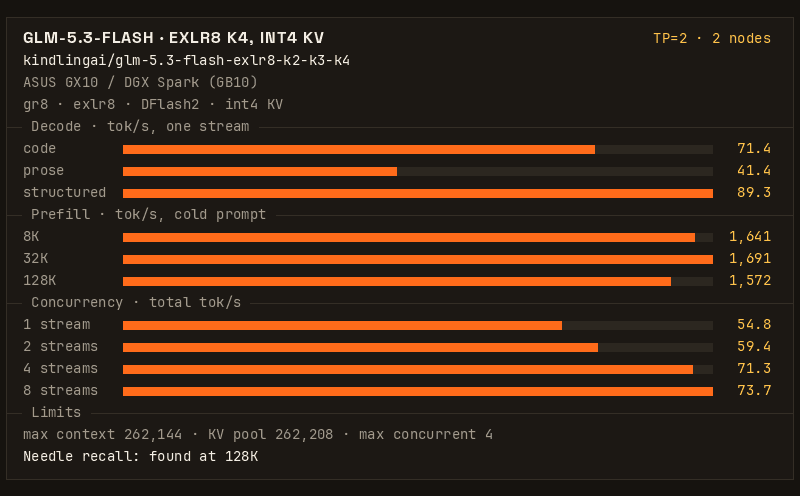
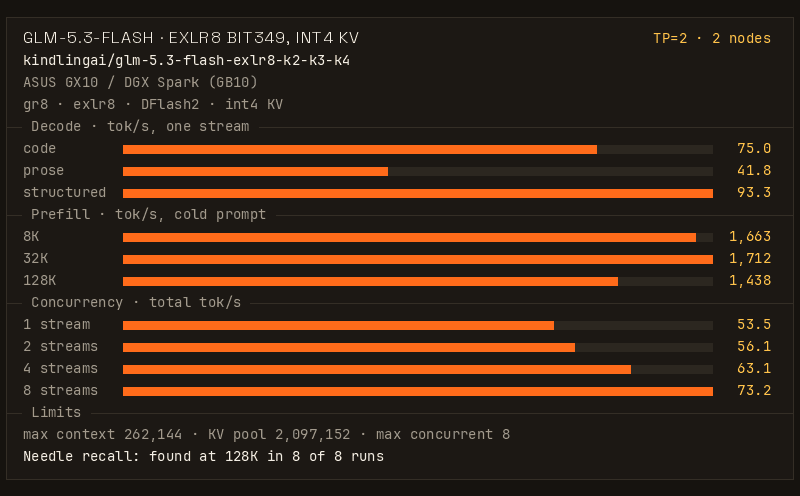
bit349 by default; TUNE sets the width, sessions, KV pool and request length; context turns on context-parallel KV; gr8 48d4349 (#14)
Moves the recipe to the release's bit349 manifest (HF 1a22815) and gr8 48d4349. TUNE sets VARIANT, SESS, CAP and MAX_MODEL_LEN (a value set in .env wins): speed = bit349, SESS 8, CAP 2097152, 262144-token requests; context = the same with 1048576-token requests and GR8_CP=1; quality = k4, SESS 4, CAP 262208. knobs.sh passes a manifest name other than k2-k4 to gr8 as its path in the model cache. New card from the speed tune.

diff --git a/README.md b/README.md
@@ -4,8 +4,9 @@
 _**Join our discord to learn more about KindlingAI and `gr8`: https://discord.gg/8EAvYPV2rE**_
 
 GLM-5.3-Flash on two DGX Sparks (GB10, 128 GB each) at TP=2, served by [gr8](https://github.com/kindlingai/gr8) from
-the K4 width of [kindlingai/glm-5.3-flash-exlr8-k2-k3-k4](https://huggingface.co/kindlingai/glm-5.3-flash-exlr8-k2-k3-k4):
-int4 KV, DFlash2 speculative decoding, four requests at once, and a prompt cache on disk.
+the `bit349` manifest of [kindlingai/glm-5.3-flash-exlr8-k2-k3-k4](https://huggingface.co/kindlingai/glm-5.3-flash-exlr8-k2-k3-k4)
+(K3 with K4 where it lowers KL most, about 3.49 bits a routed weight): int4 KV, DFlash2 speculative decoding, eight
+requests at once sharing a 2,097,152-token KV pool, and a prompt cache on disk.
 
 ![GLM-5.3-Flash on two GB10s: decode, prefill and concurrency](docs/card.png)
 
@@ -13,16 +14,15 @@ int4 KV, DFlash2 speculative decoding, four requests at once, and a prompt cache
 
 *Four requests decoding at once on two GB10s, played at 2x speed.*
 
-> Work in progress. The defaults (width, `CAP`, sessions) are starting values until the benches settle them, and the
-> numbers below are from first runs. One box serves GLM-5.3-Flash with
-> [glm-5.3-flash-exlr8-1x-spark](https://github.com/kindlingai/glm-5.3-flash-exlr8-1x-spark).
+One box serves GLM-5.3-Flash with [glm-5.3-flash-exlr8-1x-spark](https://github.com/kindlingai/glm-5.3-flash-exlr8-1x-spark).
 
 Pick what to prioritize with one setting, `TUNE`:
 
-- `TUNE=speed` (the default): one request writes code at 71.1 tok/s in a first run, and a request can be up to
-  262,144 tokens.
-- `TUNE=context`: the same as `speed` for now. A larger KV pool has not been measured on two boxes.
-- `TUNE=quality`: the same as `speed`. K4 already has the most bits per weight of the release's three widths.
+- `TUNE=speed` (the default): one request writes code at 75.0 tok/s, eight requests decode at 73.2 tok/s in total,
+  and a request can be up to 262,144 tokens.
+- `TUNE=context`: a request can be up to 1,048,576 tokens, with context-parallel KV. A 1,015,102-token prompt found
+  its needle in 1,542 s.
+- `TUNE=quality`: the release's K4 width, four requests at once, each up to 262,144 tokens.
 
 Details: [Pick what to prioritize](#pick-what-to-prioritize), below the Quickstart.
 
@@ -30,7 +30,7 @@ Details: [Pick what to prioritize](#pick-what-to-prioritize), below the Quicksta
 
 - Two Sparks joined by a 200G cable between their ConnectX ports (see Clustering).
 - Docker and the NVIDIA container toolkit on each box (both come with DGX OS).
-- No other model running on either box: the weights take about 86 GB a box.
+- No other model running on either box: the weights take about 76 GB a box (86 GB with `TUNE=quality`).
 - A LAN between the two boxes, with TCP ports 7340 and 7341 open.
 - Proactive memory compaction off on each box, once, as root (it holds across reboots):
 
@@ -99,7 +99,7 @@ docker logs -f glm53f-2x-spark     # on the head: ready at "serving: http://..."
 With `mentat` running, replace the `PEERS`, `IPS` and `IPS2` settings with `-e MENTAT=1`: then the head is the box
 with the lowest address.
 
-The first boot downloads each box's part from Hugging Face into the `glm53f-2x-cache` volume (about 86 GB, the model
+The first boot downloads each box's part from Hugging Face into the `glm53f-2x-cache` volume (about 76 GB, the model
 and the drafter) and converts the drafter. The boxes wait for each other, so start both within a few minutes.
 
 The API is OpenAI's on the head's port 8100, and the model's name is `glm-5.3-flash` (`glm53f` also works):
@@ -159,33 +159,38 @@ In `.env` next to `compose.yaml` (see `.env.example`), or with `docker run -e`, 
 
 | knob | default | |
 |---|---|---|
-| `TUNE` | `speed` | What to prioritize: `speed`, `context` or `quality` (see [Pick what to prioritize](#pick-what-to-prioritize)). On two boxes all three boot the same settings for now. Any other value stops the boot. |
+| `TUNE` | `speed` | What to prioritize: `speed`, `context` or `quality` (see [Pick what to prioritize](#pick-what-to-prioritize)). It sets the defaults of `VARIANT`, `SESS`, `CAP` and `MAX_MODEL_LEN`. Any other value stops the boot. |
 | `PEERS` | none | The two boxes' 10G LAN addresses, head first. Required unless `MENTAT=1`. |
 | `IPS`, `IPS2` | none | Each box's ConnectX address on PCIe root 1 and root 2, in `PEERS` order (see Clustering). |
-| `CAP` | `262208` | The KV pool in tokens, shared by the sessions: admission reserves each request's prompt + `max_tokens` from it. Every box holds the whole pool. |
-| `MAX_MODEL_LEN` | `262144` | The longest single request, prompt and output together. At most `CAP` less the guard rows. |
+| `VARIANT` | `bit349` (`k4` with `TUNE=quality`) | The release's width manifest: `bit349`, `k4`, or another of the release's manifests (its [release card](https://huggingface.co/kindlingai/glm-5.3-flash-exlr8-k2-k3-k4/blob/1a22815d178a79f78bb44e6858f0ee446ae8f0d4/README.md) lists them). A width not in the cache yet is downloaded at boot. |
+| `SESS` | `8` (`4` with `TUNE=quality`) | The requests that decode at once, 1 to 8. A request alone drafts with DFlash2. |
+| `CAP` | `2097152` (`262208` with `TUNE=quality`) | The KV pool in tokens, shared by the sessions: admission reserves each request's prompt + `max_tokens` from it. Every box holds the whole pool. |
+| `MAX_MODEL_LEN` | `262144` (`1048576` with `TUNE=context`) | The longest single request, prompt and output together. At most `CAP` less the guard rows, and at most 1,048,576. |
 | `DFLASH` | `1` | `1`: a request alone drafts with [DFlash2](https://huggingface.co/incoai/GLM-5.3-Flash-DFlash2) (CC BY-NC-ND 4.0), downloaded and converted on the first boot. `0`: MTP only, nothing downloaded. |
 | `MENTAT` | `0` | `1`: the boxes find each other and their ConnectX addresses through the host's `mentat` daemon, and register the API, in group `GROUP` (`gr8-glm53f-2x`). |
 
 The image pins the weights to Hugging Face commits: the release at
-[`867580a`](https://huggingface.co/kindlingai/glm-5.3-flash-exlr8-k2-k3-k4/tree/867580abd28d142bb4c56218bb81a752b7dea988)
+[`1a22815`](https://huggingface.co/kindlingai/glm-5.3-flash-exlr8-k2-k3-k4/tree/1a22815d178a79f78bb44e6858f0ee446ae8f0d4)
 and the drafter at [`bf582e4`](https://huggingface.co/incoai/GLM-5.3-Flash-DFlash2/tree/bf582e4eacc1810f76656d1811693ff6c6737d2a).
-Set `MODEL` or `DRAFTER` in `.env` as needed (`https://huggingface.co/<org>/<repo>@<commit>`).
+Set `MODEL` or `DRAFTER` in `.env` as needed (`https://huggingface.co/<org>/<repo>@<commit>`). gr8 knows `k2`, `k3` and
+`k4` by name; `knobs.sh` turns another `VARIANT` name into its manifest's path in the model cache when `MODEL` names a
+commit. With a `MODEL` that follows a branch, set `VARIANT` to the manifest's path.
 
-Advanced `gr8` options can be specified in `.env` as well: [gr8/KNOBS.md](https://github.com/kindlingai/gr8/blob/4ed9e7bed53d6ed23ba1c4a32c993ccc3850af96/KNOBS.md) lists them, and
-[gr8/docs/FLASH.md](https://github.com/kindlingai/gr8/blob/4ed9e7bed53d6ed23ba1c4a32c993ccc3850af96/docs/FLASH.md) covers GLM-5.3-Flash. The image sets `TP=2`, `SESS=4`, `VARIANT=k4`,
-`KV_FORMAT=int4` and the prompt cache (`FLASH_CACHE=aligned`, `KV_STORE=@/etc/gr8/kv-store.yaml`) (`Dockerfile`).
+Advanced `gr8` options can be specified in `.env` as well: [gr8/KNOBS.md](https://github.com/kindlingai/gr8/blob/48d43497f8261fc9f7a1893d1554ca4b29b35e81/KNOBS.md) lists them, and
+[gr8/docs/FLASH.md](https://github.com/kindlingai/gr8/blob/48d43497f8261fc9f7a1893d1554ca4b29b35e81/docs/FLASH.md) covers GLM-5.3-Flash. The image sets `TP=2`, `KV_FORMAT=int4` and the
+prompt cache (`FLASH_CACHE=aligned`, `KV_STORE=@/etc/gr8/kv-store.yaml`) (`Dockerfile`); `TUNE` sets the rest
+(`knobs.sh`).
 
 ## Pick what to prioritize
 
-`TUNE` picks one of three sets of settings (`knobs.sh`). On two boxes the three are the same for now: `TUNE` sets
-nothing, and the image's defaults apply (K4, int4 KV, `CAP` 262,208, `MAX_MODEL_LEN` 262,144).
+`TUNE` sets `VARIANT`, `SESS`, `CAP` and `MAX_MODEL_LEN` (`knobs.sh`), and `context` also turns on context-parallel
+KV. When you set one of them yourself, your value wins. Measured on two GX10s joined by one 200G cable.
 
 | `TUNE` | sets | you get | you give up | measured |
 |---|---|---|---|---|
-| `speed` (default) | nothing: the image's defaults | Decode, one stream: code / prose / structured 71.1 / 41.5 / 90.0 tok/s. Prefill 8K / 32K / 128K: 1,698 / 1,694 / 1,404 tok/s. The 128K needle test passes. | Requests longer than 262,144 tokens, prompt and output together. | [First numbers](#first-numbers), below: a first run, one stream at a time, on two GX10s joined by one 200G cable. The card at the top is a separate bench run of the same defaults, with 1 to 8 streams. |
-| `context` | the same as `speed` | The same as `speed` for now. | Nothing. | Not measured: no `CAP` above 262,208 has run on two boxes. |
-| `quality` | the same as `speed` | The same as `speed`. | Nothing. | Nothing else to measure: K4 has the most bits per weight of the release's three widths (4.0, the [release card](https://huggingface.co/kindlingai/glm-5.3-flash-exlr8-k2-k3-k4/blob/867580abd28d142bb4c56218bb81a752b7dea988/README.md)), and the image builds only the int4 KV engine. The release card's quality comparison against BF16 covers K4. |
+| `speed` (default) | `VARIANT=bit349`, `SESS=8`, `CAP=2097152`, `MAX_MODEL_LEN=262144` | Decode, one stream: code / prose / structured 75.0 / 41.8 / 93.3 tok/s. Eight streams: 73.2 tok/s in total. Prefill 8K / 32K / 128K: 1,663 / 1,712 / 1,438 tok/s. 13.3-13.6 GiB free a box at idle. | Requests longer than 262,144 tokens. Some quality against K4: mean KL against BF16 0.397, K4 0.384 (the release card). | The card at the top. |
+| `context` | the same as `speed`, with `MAX_MODEL_LEN=1048576` and `GR8_CP=1` in `EXTRA_ENV` | One request up to 1,048,576 tokens. Context-parallel KV keeps the first 32,768 tokens of the KV on both boxes and each later 64-token page on one box, so each box has about 1.8 GiB more free: 15.1-15.3 GiB at idle. A 1,015,102-token prompt found its needle in 1,542 s, and free memory stayed above 15.4 GiB a box. At a 156K context one stream decodes 7% faster (39.2 against 36.5 tok/s). | Decode 1-3% slower at short context. Prefill 3% / 3% / 10% slower at 8K / 32K / 128K. Eight streams 2% slower in total. T=0 output is not the same bits as with it off. gr8 marks context-parallel KV for GLM-5.3-Flash experimental. | The memory and the needle on this image. The speed differences on test builds with the same widths, `SESS` and `CAP`. |
+| `quality` | `VARIANT=k4`, `SESS=4`, `CAP=262208`, `MAX_MODEL_LEN=262144` | The release's widest width, K4 (4.0 bits a routed weight, mean KL against BF16 0.384). Decode, one stream: code / prose / structured 68.8 / 40.2 / 88.0 tok/s. Prefill 8K / 32K / 128K: 1,742 / 1,625 / 1,386 tok/s. 13.2-13.4 GiB free a box at idle. | Half the sessions, an eighth of the KV pool, and about 10 GB more weights a box. Decode 4-8% slower than `speed`. Eight streams: 66.3 tok/s in total. | One run of the bench's decode, concurrency and prefill stages on this image, run as for the card. Its first boot downloaded 15 GB a box of K4 that `bit349` does not use. |
 
 ## The prompt cache
 
@@ -194,32 +199,22 @@ A prompt's prefill keeps a checkpoint at its last multiple of 4,096 tokens in ea
 rest, and the output is the same bit for bit. Checkpoints outlive restarts (a new engine build, release or `CAP` starts
 empty).
 
-## First numbers
+## How the card was made
 
-One stream at a time, K4, int4 KV, DFlash2, `CAP` 262,208, on two GX10s joined by one 200G cable:
+The card at the top is one run of gr8's bench at its default level, in this image on two GX10s joined by one 200G
+cable, with `TUNE=speed` and no other knob set. The run did not cool the GPUs between stages (`--hosts ''`, below).
+The data is in `kindling.json`, from `python3 gr8/bench/bench.py kindling REPORT.json --out kindling.json
+--config-id tp2`, and the card is `python3 gr8/bench/gif.py card kindling.json`. The GIF is the run's 4-stream
+recording (`--record DIR`), drawn by `gif.py` at 2x speed. The smoke test passed 14 of 14. The 128K needle test
+passed in 8 of 8 runs (`--stages correct --needle-seed N`, N from 1 to 8).
 
-| | tok/s |
-|---|---|
-| decode: code / prose / structured | 71.1 / 41.5 / 90.0 |
-| prefill: 8K / 32K / 128K prompt | 1,698 / 1,694 / 1,404 |
-
-The 128K needle test passes.
-
-The card at the top is one run of gr8's bench at its default level. It ran in the image on two GB10s with the image's
-defaults. The data is in `kindling.json`. To regenerate it, run
-`python3 gr8/bench/bench.py kindling REPORT.json --out kindling.json --config-id tp2`. The smoke test passed 14 of 14.
-Boot: measured on a local build of this recipe at `319ed60` with gr8 `4ed9e7b` (a two-box DGX Spark set,
-2026-11-07; the download that puts the weights on disk is separate — it is what the previous image's numbers below
-counted). The first boot with the weights already on disk reached serving 26.5 s after the run's start, of which
-24.8 s came after the start command returned; a restart with the cache kept took 24.8 s from the start command
-returning. The two measured waits after the start commands returned both rounded to 24.8 s. The boot is loading the about
-86 GB of weights and starting the engines (the pack is loaded 21.2 s into the boot, the graphs captured at 22.1 s). On the previous image the first boot took 2,196 s including the download, of which 2,131 s went to
-downloading the model and the drafter and converting the drafter, and a restart with the cache kept took 37.9 s.
+Boot, with the weights already in the cache: a restart took 30.8 s from the start command on the head to `/health`
+answering 200, with the second box started first. The first boot on a new release commit took 145 s with nothing to
+download: it links the unchanged files from the cached commit and checks them.
 
 To run the bench in the image, on the head: `docker exec glm53f-2x-spark gr8 glm53f bench --hosts ''`. Without
 `--hosts ''` it stops with `FileNotFoundError: 'ssh'`. The bench reaches each box over ssh to cool and sample its GPU,
-and the image has no ssh. With `--hosts ''` the bench does not cool the GPUs between stages. The card's run did
-not cool them either.
+and the image has no ssh. With `--hosts ''` the bench does not cool the GPUs between stages.
 
 ## Run another model
 
@@ -233,8 +228,8 @@ docker stop glm53f-2x-spark && docker rm glm53f-2x-spark   # compose: docker com
 The stop ends the engine's orderly quit, as in the Quickstart, so it takes a moment before the containers go.
 
 Switch times to and from this recipe, measured on 2026-11-07, warm, two runs each way: this recipe on a two-box
-DGX Spark pair, measured on a local build of the recipe at `319ed60` with gr8 `4ed9e7b` (the engine this recipe
-pins after its gr8 bump); GLM-5.3 and DeepSeek-V4.1-Flash at TP=4 on their four-box set (two DGX Sparks, two Gen4
+DGX Spark pair, measured on a local build of the recipe at `319ed60` with gr8 `4ed9e7b`, K4, `SESS=4` and `CAP`
+262,208 (the defaults before `TUNE` set them); GLM-5.3 and DeepSeek-V4.1-Flash at TP=4 on their four-box set (two DGX Sparks, two Gen4
 GB10 boxes). "Down" is the old model's stop-and-remove on every box, run in parallel (`docker compose down`),
 until all have returned; "Wait after the start returns" runs from the new model's start returning until it
 reports ready; "Total" runs from the start of the stop to ready.
@@ -248,7 +243,7 @@ reports ready; "Total" runs from the start of the stop to ready.
 
 The first boot of this recipe after its files were in place took 26.5 s from the run's start to ready, of which
 24.8 s came after the start command returned; the warm restart's wait also rounded to 24.8 s. The boot is loading
-the about 86 GB of weights and starting the engines. (The 31.3 s row above includes stopping GLM-5.3 first.) On
+the K4 weights, about 86 GB, and starting the engines. (The 31.3 s row above includes stopping GLM-5.3 first.) On
 the engine this recipe pinned before gr8 `4ed9e7be`, the same switch-away stop-and-remove phase took about 13-14 s.
 
 Chats survive the round trip: four chats, their next turn replayed after a full round trip to the TP=4 model
@@ -257,7 +252,7 @@ are short, and the prompt cache's checkpoints land at 4,096-token multiples, so 
 fresh.
 
 Each box's part stays in its `glm53f-2x-cache` volume, so a later start of this recipe downloads nothing. To free the
-disk (about 86 GB a box, and up to 64 GB of prompt checkpoints), remove the volumes on both boxes:
+disk (about 76 GB a box, more after a `TUNE=quality` boot, and up to 64 GB of prompt checkpoints), remove the volumes on both boxes:
 
 ```bash
 docker volume rm glm53f-2x-cache glm53f-2x-prompts glm53f-2x-home   # compose: docker compose down -v

diff --git a/AGENTS.md b/AGENTS.md
@@ -13,12 +13,14 @@ On both boxes:
   between their ConnectX ports (README.md, Clustering).
 - Docker and the NVIDIA container toolkit are installed (both come with DGX OS): `docker info | grep -i nvidia` shows
   the `nvidia` runtime.
-- Free disk where Docker keeps volumes: about 86 GB for this box's part of the model and the drafter, plus up to
-  64 GB for the prompt cache. Check with `df -h "$(docker info --format '{{.DockerRootDir}}')"`. With compose, you can
-  set `MODEL_CACHE_DIR` and `PROMPT_CACHE_DIR` to host directories owned by uid 1000 instead.
+- Free disk where Docker keeps volumes: about 76 GB for this box's part of the model and the drafter (86 GB with
+  `TUNE=quality`; switching between the two keeps both, about 91 GB), plus up to 64 GB for the prompt cache. Check
+  with `df -h "$(docker info --format '{{.DockerRootDir}}')"`. With compose, you can set `MODEL_CACHE_DIR` and
+  `PROMPT_CACHE_DIR` to host directories owned by uid 1000 instead.
 - The box can reach Hugging Face for the download: `curl -sI https://huggingface.co` answers.
 - No other model runs on the box: `docker ps` shows no other model container, and `nvidia-smi` shows no GPU process.
-  The weights take about 86 GB a box, and gr8 does not start while another gr8 engine runs on the box.
+  The weights take about 76 GB a box (86 GB with `TUNE=quality`), and gr8 does not start while another gr8 engine
+  runs on the box.
 - TCP ports 7340 and 7341 are open between the two boxes: no firewall blocks them. Check this before the boot, while
   nothing listens on those ports. `nc` may not be installed, so use `python3` and bash. On the second box, listen on
   one port:
@@ -58,18 +60,20 @@ On both boxes:
 
 Set the same values on both boxes, in `.env` (compose) or with `docker run -e`.
 
-`TUNE` picks what to prioritize. On two boxes all three values boot the same settings for now, so use the default
-unless the person asks for another value.
+`TUNE` picks what to prioritize. Use the default unless the person asks for another value.
 
 | `TUNE` | the settings it sets (`knobs.sh`) | what it gives |
 |---|---|---|
-| `speed` (default) | none: the image's defaults (K4, int4 KV, `CAP=262208`, `MAX_MODEL_LEN=262144`) | the settings README.md's numbers were measured with: requests up to 262,144 tokens |
-| `context` | none | the same as `speed` for now: no `CAP` above 262,208 has been measured on two boxes |
-| `quality` | none | the same as `speed`: K4 already has the most bits per weight of the release's three widths, and the image builds only the int4 KV engine |
+| `speed` (default) | `VARIANT=bit349`, `SESS=8`, `CAP=2097152`, `MAX_MODEL_LEN=262144` | the settings of README.md's card: eight requests at once, each up to 262,144 tokens |
+| `context` | the same as `speed`, with `MAX_MODEL_LEN=1048576` and `GR8_CP=1` added to `EXTRA_ENV` (context-parallel KV) | one request up to 1,048,576 tokens, with more memory free on each box. Decode at short context and prefill are a little slower |
+| `quality` | `VARIANT=k4`, `SESS=4`, `CAP=262208`, `MAX_MODEL_LEN=262144` | the release's widest width (K4), four requests at once, each up to 262,144 tokens |
 
 What else `knobs.sh` does:
 
 - Any other `TUNE` value stops the boot.
+- When the person sets `VARIANT`, `SESS`, `CAP` or `MAX_MODEL_LEN`, their value wins over the `TUNE`. With
+  `TUNE=context`, a `GR8_CP` already in `EXTRA_ENV` keeps its value, and any other `EXTRA_ENV` stays, with `GR8_CP=1`
+  added at the end.
 - With `MENTAT=0` (the default), `PEERS` must name two addresses, or the boot stops.
 
 Every knob:
@@ -79,8 +83,10 @@ Every knob:
 | `PEERS` | the two boxes' 10G LAN addresses, comma-separated, head first, the same list on both boxes | none: required unless `MENTAT=1` |
 | `IPS`, `IPS2` | each box's ConnectX address on PCIe root 1 and root 2, in `PEERS` order | none |
 | `TUNE` | `speed`, `context`, `quality` | `speed` |
-| `CAP` | the KV pool in tokens, shared by the sessions, a multiple of 64; about 5 KB of memory a token. Every box holds the whole pool | `262208` |
-| `MAX_MODEL_LEN` | the longest single request, prompt and output together: at most `CAP` less the guard rows, and at most 1,048,576 | `262144` |
+| `VARIANT` | the release's width manifest: `bit349` (K3 with K4 where it lowers KL most, about 3.49 bits a routed weight), `k4`, or another of the release's manifests | `TUNE`'s: `bit349`, or `k4` for `quality` |
+| `SESS` | the requests that decode at once, 1 to 8 | `TUNE`'s: `8`, or `4` for `quality` |
+| `CAP` | the KV pool in tokens, shared by the sessions, a multiple of 64; about 5 KB of memory a token. Every box holds the whole pool | `TUNE`'s: `2097152`, or `262208` for `quality` |
+| `MAX_MODEL_LEN` | the longest single request, prompt and output together: at most `CAP` less the guard rows, and at most 1,048,576 | `TUNE`'s: `262144`, or `1048576` for `context` |
 | `DFLASH` | `1`: a request alone drafts with the DFlash2 drafter (licence CC BY-NC-ND 4.0), downloaded and converted on the first boot. `0`: MTP only, nothing downloaded | `1` |
 | `MENTAT` | `0`: the two boxes in `PEERS`. `1`: the boxes find each other and their ConnectX addresses through the host's `mentat` daemon, and register the API, in group `GROUP` | `0` |
 | `GROUP` | the `mentat` group, with `MENTAT=1` | `gr8-glm53f-2x` |
@@ -135,11 +141,8 @@ netplan example (README.md, Clustering): replace them with yours. With `mentat`,
      ghcr.io/kindlingai/glm-5.3-flash-exlr8-2x-spark:latest
    ```
 
-   The first boot downloads each box's part from Hugging Face into the `glm53f-2x-cache` volume (about 86 GB, the
-   model and the drafter) and converts the drafter. README.md (First numbers) gives the boot times, measured on a
-   two-box DGX Spark set on a local build of this recipe at `319ed60` with gr8 `4ed9e7b`: 26.5 s to serving the
-   first time (weights already on disk; 24.8 s of it after the start command returned), and 24.8 s for a restart
-   with the cache kept, counted the same way (previous image: 2,196 s including the download, and 37.9 s).
+   The first boot downloads each box's part from Hugging Face into the `glm53f-2x-cache` volume (about 76 GB, the
+   model and the drafter) and converts the drafter. README.md (How the card was made) gives the boot times.
 
    Or with compose, on both boxes:
 
@@ -226,6 +229,6 @@ If a step fails for a reason not listed here, ask on the KindlingAI Discord (the
 This list is the recipe's checklist of what is still to be measured. If the person measures one of these, ask them to
 post the numbers on Discord or in an issue (https://github.com/kindlingai/glm-5.3-flash-exlr8-2x-spark/issues).
 
-- `TUNE=context` has no settings of its own: no `CAP` above 262,208 has been measured on two boxes.
-- The release card's quality comparison against BF16 covers K4, measured in vLLM at TP=4. K4 through gr8 at TP=2, the
-  width every `TUNE` value runs here, has not been scored against BF16.
+- The release card's KL against BF16 (`bit349` 0.397, `k4` 0.384) was not measured through gr8 at TP=2. Neither
+  width has been scored against BF16 here.
+- `TUNE=context` with several long requests at once: the measured runs had one long prompt beside short requests.
